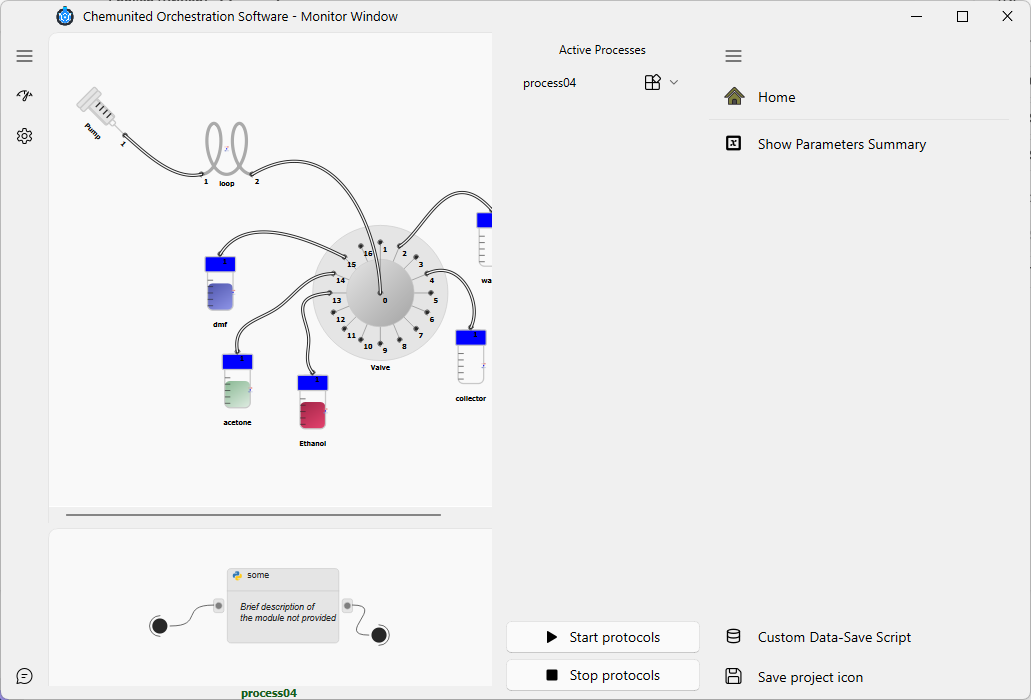
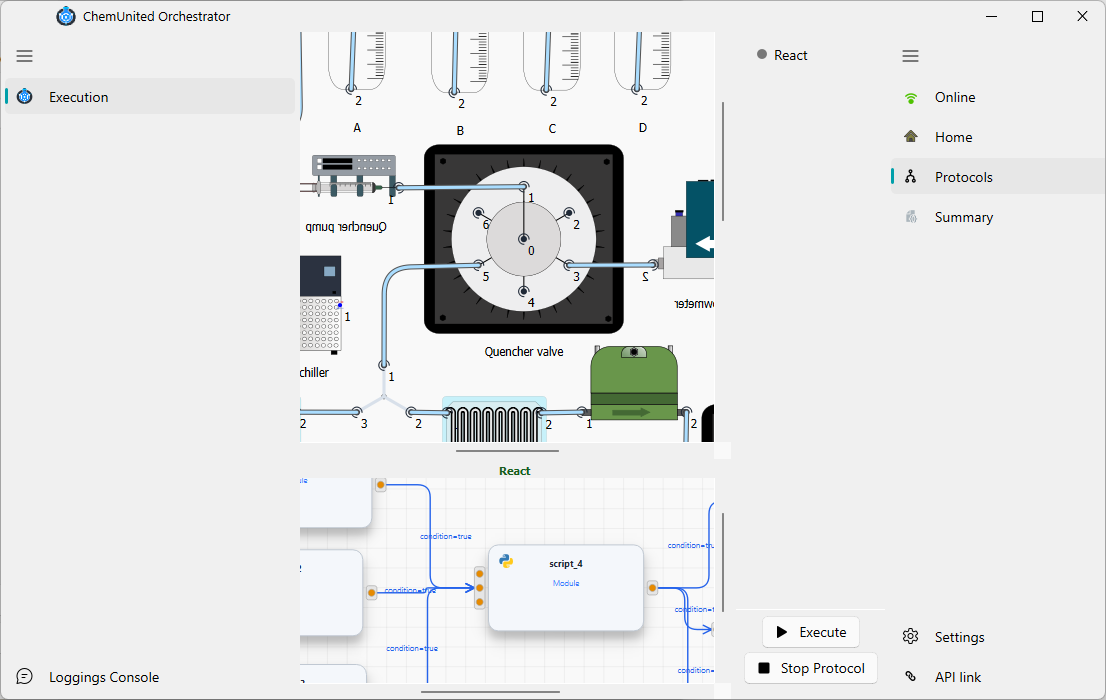
Updating

diff --git a/docs/monitoring/run_monitoring.md b/docs/monitoring/run_monitoring.md
@@ -1,46 +1,44 @@
 # Run and Monitoring
 
-The Monitoring window is intentionally simpler than the Setup window.
-Its purpose is to **run a protocol that has already been created**, following the order of the processes listed 
-under **Active Processes**.
+The Execution window is intentionally simpler than the Setup window. Its purpose is to **run a protocol that has
+already been created**, following the order of the processes listed under **Active Processes**
+(configured in [Pre-Running](../protocols/pre_running.md)).
 
 ![Alt text](../_static/monitoring01.png)
 
-The buttons shown in the figure above is described as:
+The sidebar on the right side of the window has the following items:
 
-* <img src="../_static/icons/variable_black.svg" width="16" style="vertical-align:middle; margin-right:4px;"> **Show Parameters Summary** 
+| Item | Description |
+|---|---|
+| **Online / Offline** | Connects to (or disconnects from) the execution API. Must be **Online** before a protocol can run. |
+| <img src="../_static/icons/home.svg" width="16" style="vertical-align:middle; margin-right:4px;"> **Home** | Recenters both the platform diagram and the workflow graph shown in the main canvas. |
+| **Protocols** | The page shown by default — lists **Active Processes** and holds the **Execute** / **Stop Protocol** buttons described below. |
+| <img src="../_static/icons/variable_black.svg" width="16" style="vertical-align:middle; margin-right:4px;"> **Summary** | Opens a read-only window with **Parameters** and **Report** tabs — all predefined parameters (main and process) with their current values, and a report of the run. |
 
-Opens a read-only view with all predefined parameters (main and process parameters), including their current values.
+At the bottom of that sidebar:
 
-* <img src="../_static/icons/database_black.svg" width="16" style="vertical-align:middle; margin-right:4px;"> **Custom Data-Save Script** 
+| Action | Description |
+|---|---|
+| **Settings** | Opens the **Run Configuration** dialog — the protocol to run (read-only here) plus **command timeout**, **dry run**, and **error-resilient mode**. These are the same options exposed by the browser dashboard's [Run Control](../dashboard/run_control.md) page. |
+| **API link** | Opens the execution API's URL in your browser. |
 
-Opens the editor for a custom data-saving script.
-Use this to define how experimental data should be stored (e.g., file format, naming, metadata), 
-based on a predefined class/template provided by the application.
+On the **Protocols** page itself:
 
-* <img src="../_static/icons/play_black.svg" width="16" style="vertical-align:middle; margin-right:4px;"> **Start protocol** 
+* <img src="../_static/icons/play_black.svg" width="16" style="vertical-align:middle; margin-right:4px;"> **Execute** — starts the protocol, running every process listed in **Active Processes** in order. Disabled while a protocol is already running.
+* <img src="../_static/icons/stop_black.svg" width="16" style="vertical-align:middle; margin-right:4px;"> **Stop Protocol** — stops the currently running protocol execution.
 
-Starts the execution of the full protocol, running all processes in the order shown in **Active Processes**.
-
-* <img src="../_static/icons/stop_black.svg" width="16" style="vertical-align:middle; margin-right:4px;"> **Stop protocol**
-
-Stops the currently running protocol execution.
-
-## Running individual processes
-
-In addition to starting the full protocol, each process listed under **Active Processes** includes its own option/menu
-to run that process individually.
-This is useful for testing a single process step without executing the full sequence.
-
-## 🧑🏫 Tutorial Example
-
-For this tutorial, you only need to click **Start Protocol**. The application will execute the processes listed in 
-**Active Processes** in order.
-
-<img src="../_static/monitoring02.gif" width="900px">
+<div class="info-block">
+<strong>💡 Information</strong><br>
+If you click <strong>Execute</strong> while a run is already active elsewhere, the window asks whether to stop the
+conflicting run first — <strong>Active Processes</strong> itself does not offer a way to run a single process on
+its own.
+</div>
 
 ## Next steps
 
-The Monitor window above is the desktop-side view of a run. Once a protocol starts, execution is actually handed off
-to a separate execution engine (the "work-server") that also exposes a browser dashboard and a remote/automation API
-— see [Execution & Dashboard](../execution/overview.md) to control or inspect a run from a browser or another machine.
+The Execution window above is the desktop-side view of a run. Once a protocol starts, execution is actually
+handed off to a separate execution engine (the "work-server") that also exposes a browser dashboard and a
+remote/automation API — see [The Dashboard](../dashboard/overview.md) to control or inspect a run from a browser
+or another machine.
+
+Ready to try it? See [Run a Protocol](../tutorials/monitoring_tutorial.md) for a step-by-step walkthrough.

diff --git a/docs/dashboard/overview.md b/docs/dashboard/overview.md
@@ -16,7 +16,7 @@ The dashboard has six pages, reachable from the sidebar on the left of every pag
 * **[Devices](devices.md)** — check connectivity for every component in the project.
 
 At the bottom of the sidebar: **Refresh project** (reload project state from disk), **API Docs** (opens the
-work-server's OpenAPI docs — see [API & MCP Tools](../execution/api_and_mcp.md)), and a **Dark theme** toggle.
+work-server's OpenAPI docs — see [API & MCP Tools](api_and_mcp.md)), and a **Dark theme** toggle.
 
 ## Landing page
 
@@ -35,3 +35,38 @@ Four cards summarize the loaded project:
 platform diagram (the same layout you build in [Drawing](../drawing/drawing.md)), useful for a quick visual sanity
 check of the loaded setup. At the bottom, four quick-navigation cards jump straight to Run Control, Protocols,
 Monitoring, and Logs.
+
+## Starting the work-server manually
+
+You do not need to start the work-server yourself for a normal run — the orchestrator launches it automatically
+when you click **Run Monitoring**, and the [Dashboard Launcher](launcher.md) covers the common desktop-side
+options. This section is for running it standalone (e.g. headless, on a lab server, or exposed to other machines
+on the network), via its own command-line tool:
+
+```bash
+chemunited-workflow serve [project_dir] [OPTIONS]
+```
+
+Running the bare `chemunited-workflow` command with no arguments is equivalent to `serve` with defaults.
+
+| Flag | Description |
+|---|---|
+| `--host` | Interface to bind to (defaults to localhost-only). |
+| `--port` | Port to serve the dashboard/API on. |
+| `--reload` | Auto-restart the server on code changes (development use). |
+| `--advertise` | Bind to all interfaces and announce the server on the local network via mDNS/Zeroconf, so it can be discovered by other machines. |
+| `--advertise-name` | Custom name to advertise the server as, when `--advertise` is used. |
+| `--with-mcp` | Expose the [MCP tool interface](api_and_mcp.md) on the same port as the dashboard. |
+| `--tray` | Run the server in the background with a system-tray icon (Windows), with quick actions to open the dashboard, check status, or quit. |
+| `--silent` | Detach the console window. Requires `--tray`, and is not compatible with `--reload`. |
+
+<div class="warning-block">
+<strong>⚠ Warning</strong><br>
+The work-server does not require authentication. When started with <code>--advertise</code> (or bound to a
+non-localhost <code>--host</code>), anyone on the same network can view and control the run. Only use this on
+trusted lab networks.
+</div>
+
+## Next steps
+
+See [API & MCP Tools](api_and_mcp.md) if you want to script or automate against the dashboard directly.

diff --git a/docs/dashboard/launcher.md b/docs/dashboard/launcher.md
@@ -24,7 +24,7 @@ work-server directly from the desktop app, so you don't have to run its CLI comm
 | **System Tray** | Keeps the dashboard running as a tray icon after the launcher window and terminal are closed. Requires the `pystray` package — if it isn't installed, the dashboard launches without tray support and a warning is logged (install with `pip install chemunited-workflow[tray]`). |
 | **Silent Mode** | Windows only, and only takes effect when **System Tray** is also on. Detaches the process from the terminal on launch, so no console window appears. |
 | **LAN Advertisement** | Broadcasts the dashboard on the local network via mDNS, so other devices can reach it by name instead of by IP. Turning it on reveals a **Network Name** field (defaults to `ChemUnited @ <hostname>`) used as the advertised name. |
-| **Expose MCP Endpoint** | Also serves a Model Context Protocol (MCP) endpoint at `/mcp`, for LLM agents to interact with the project (see [API & MCP Tools](../execution/api_and_mcp.md)). Turning it on reveals the **MCP Client Configuration** card below. |
+| **Expose MCP Endpoint** | Also serves a Model Context Protocol (MCP) endpoint at `/mcp`, for LLM agents to interact with the project (see [API & MCP Tools](api_and_mcp.md)). Turning it on reveals the **MCP Client Configuration** card below. |
 
 <div class="info-block">
 <strong>💡 Information</strong><br>
@@ -32,6 +32,12 @@ The <strong>Generated command</strong> box below the options always shows the ex
 <code>chemunited-workflow serve ...</code> command your current selection maps to — useful if you'd rather copy it
 and run the dashboard from a terminal instead of launching it from the GUI.
 </div>
+
+With **System Tray** on, the dashboard keeps running in the background as an icon in the Windows system tray (the
+overflow area next to the clock) after the launcher window and terminal are closed. Right-click it for **Open
+App** (opens the dashboard in your browser), **Status**, and **Quit**:
+
+<img src="../_static/workflow_tray.png" width="220">
 
 ## Launching and stopping
 

diff --git a/docs/simulation/digital_twins.md b/docs/simulation/digital_twins.md
@@ -67,9 +67,9 @@ it as SVG and save as: <code>docs/_static/simulation_modes.svg</code>, then repl
 
 | | Mode 1 — Workflow Simulation | Mode 2 — Real-Time Shadow |
 |---|---|---|
-| What it does | Dry-tests a protocol against physics, no hardware involved | Mirrors a live hardware run happening in the [work-server](../execution/overview.md), as a "ghost" alongside the real experiment |
+| What it does | Dry-tests a protocol against physics, no hardware involved | Mirrors a live hardware run happening in the [work-server](../dashboard/overview.md), as a "ghost" alongside the real experiment |
 | Speed | Runs as fast as the computer can solve it | Runs at wall-clock pace, matched to the real run |
-| How to launch | The **Run Simulation** button described above | Reached through the work-server/simulation API rather than a dedicated orchestrator button today — see [API & MCP Tools](../execution/api_and_mcp.md) |
+| How to launch | The **Run Simulation** button described above | Reached through the work-server/simulation API rather than a dedicated orchestrator button today — see [API & MCP Tools](../dashboard/api_and_mcp.md) |
 
 ## 📈 Recorded Visualizations
 
@@ -98,5 +98,5 @@ Save as: <code>docs/_static/sim_network01.png</code>, then replace this block wi
 ## Next steps
 
 Once your protocol behaves as expected in simulation, connect real devices in
-[Connect Devices](../connectivity/connectivity.md), or see [Execution & Dashboard](../execution/overview.md) to
+[Connect Devices](../connectivity/connectivity.md), or see [The Dashboard](../dashboard/overview.md) to
 shadow a live run with Mode 2.

diff --git a/docs/developer/add_features.md b/docs/developer/add_features.md
@@ -1,15 +1,8 @@
 # Customize protocols
 
 [Add new components](add_components.md) covers adding new *hardware* to the component library. This page covers
-adding new *behavior* — logic layered on top of an existing platform, such as how data gets saved, how a reaction
-is modeled in simulation, or how the protocol logic itself is structured.
-
-## 📝 Custom Data-Save Scripts
-
-The **Custom Data-Save Script** button, already introduced in [Run and Monitoring](../monitoring/run_monitoring.md),
-opens an editor for a Python class that defines how experimental data is stored during a run — file format,
-naming convention, and metadata. The application provides a base template class; you override its methods to
-customize what gets written and where, without needing to modify anything else about the protocol.
+adding new *behavior* — logic layered on top of an existing platform, such as how a reaction is modeled in
+simulation, or how the protocol logic itself is structured.
 
 ## <img src="../_static/icons/module.svg" width="16" style="vertical-align:middle; margin-right:4px;"> Custom Reaction Models
 

diff --git a/docs/tutorials/monitoring_tutorial.md b/docs/tutorials/monitoring_tutorial.md
@@ -1,0 +1,22 @@
+# 🧑🏫 Run a Protocol
+
+This tutorial continues from [Build a Protocol](protocols_tutorial.md): with a process already built and its
+active processes selected in [Pre-Running](../protocols/pre_running.md), you're ready to run it from the
+[Execution window](../monitoring/run_monitoring.md).
+
+***
+
+## Step 1 — Execute the protocol
+
+Open the **Protocols** page of the Execution window and click **Execute**. The application runs the processes
+listed under **Active Processes** in order.
+
+<img src="../_static/monitoring02.gif" width="900px">
+
+***
+
+## Next steps
+
+Once a protocol starts, execution is actually handed off to a separate execution engine (the "work-server") that
+also exposes a browser dashboard and a remote/automation API — see [The Dashboard](../dashboard/overview.md) to
+control or inspect the same run from a browser or another machine.

diff --git a/docs/index.md b/docs/index.md
@@ -61,6 +61,12 @@ protocols/pre_running.md
 
 ```{toctree}
 :maxdepth: 1
+:caption: Execute and Monitoring
+monitoring/run_monitoring.md
+```
+
+```{toctree}
+:maxdepth: 1
 :caption: Dashboard
 dashboard/launcher.md
 dashboard/overview.md
@@ -69,14 +75,7 @@ dashboard/protocols.md
 dashboard/monitoring.md
 dashboard/logs.md
 dashboard/devices.md
-```
-
-```{toctree}
-:maxdepth: 1
-:caption: Execute and Monitoring
-monitoring/run_monitoring.md
-execution/overview.md
-execution/api_and_mcp.md
+dashboard/api_and_mcp.md
 ```
 
 ```{toctree}
@@ -91,6 +90,7 @@ reference/components.md
 :caption: Tutorial
 tutorials/drawing_tutorial.md
 tutorials/protocols_tutorial.md
+tutorials/monitoring_tutorial.md
 tutorials/connectivity_tutorial.md
 ```
 

diff --git a/docs/developer/software_design.md b/docs/developer/software_design.md
@@ -20,7 +20,7 @@ save as: <code>docs/_static/suite_architecture.svg</code>, then replace this blo
   simulation engine compile against.
 * **chemunited-workflow** (the "work-server") — compiles a process into an executable graph and runs it against
   real hardware over HTTP, exposing a browser dashboard and REST/MCP API. See
-  [Execution & Dashboard](../execution/overview.md).
+  [The Dashboard](../dashboard/overview.md).
 * **chemunited-sim** — the physics engine behind digital twins. Can either dry-run a protocol standalone, or
   mirror ("shadow") a live hardware run happening in chemunited-workflow. See
   [Setup Digital Twins](../simulation/digital_twins.md).

diff --git a/docs/protocols/parameters.md b/docs/protocols/parameters.md
@@ -144,7 +144,7 @@ grouped by the **Group** set above and labelled with its **Variable Title**.
 **[Access Process Parameters](build_protocols.md#workflow-canvas-menu)** opens this generated form for the current
 process's parameters, so their default values can be reviewed and edited without leaving the workflow canvas:
 
-![Alt text](../_static/parameters_window_view.png)
+<img src="../_static/parameters_window_view.png" width="400">
 
 Before actually running a process, [Pre-Running](pre_running.md#-options-in-the-processes-lists) shows the same
 generated form again — this time for a specific queued instance (e.g. `clean_0`), with **Process Parameters** and

diff --git a/docs/protocols/module_workflows.md b/docs/protocols/module_workflows.md
@@ -30,7 +30,7 @@ Use it when a part of the protocol must run multiple times (for example: iterati
 A Conditional module creates a branching point in the workflow.
 Depending on the defined criteria, the process follows one branch or another.
 
-* <img src="../_static/icons/Play_black.svg" width="16" style="vertical-align:middle; margin-right:4px;"> Command
+* <img src="../_static/icons/play_black.svg" width="16" style="vertical-align:middle; margin-right:4px;"> Command
 
 A Command module represents a single command sent to one associated device — no code required. Rather than
 clicking New Module, you drag it directly onto the canvas from the

diff --git a/docs/developer/welcome.md b/docs/developer/welcome.md
@@ -20,7 +20,7 @@ see the first one, but it helps to know all three exist:
   [Connect Devices](../connectivity/connectivity.md)).
 * **The work-server** (`chemunited-workflow`) — the engine that actually executes a protocol against real
   hardware once you click **Run Monitoring**. It runs as its own process and exposes a browser dashboard and API —
-  see [Execution & Dashboard](../execution/overview.md).
+  see [The Dashboard](../dashboard/overview.md).
 * **The simulation engine** (`chemunited-sim`) — the physics engine behind **Run Simulation** and digital twins —
   see [Setup Digital Twins](../simulation/digital_twins.md).
 

diff --git a/docs/developer/backend.md b/docs/developer/backend.md
@@ -42,7 +42,7 @@ only enable it on trusted machines.
 
 There is a separate execution server (`chemunited-workflow`) with its own REST API, MCP tools, and browser
 dashboard — used when actually running a protocol against hardware. See
-[Execution & Dashboard](../execution/overview.md) rather than duplicating that material here.
+[The Dashboard](../dashboard/overview.md) rather than duplicating that material here.
 
 ## 🧪 Simulation Backend
 
